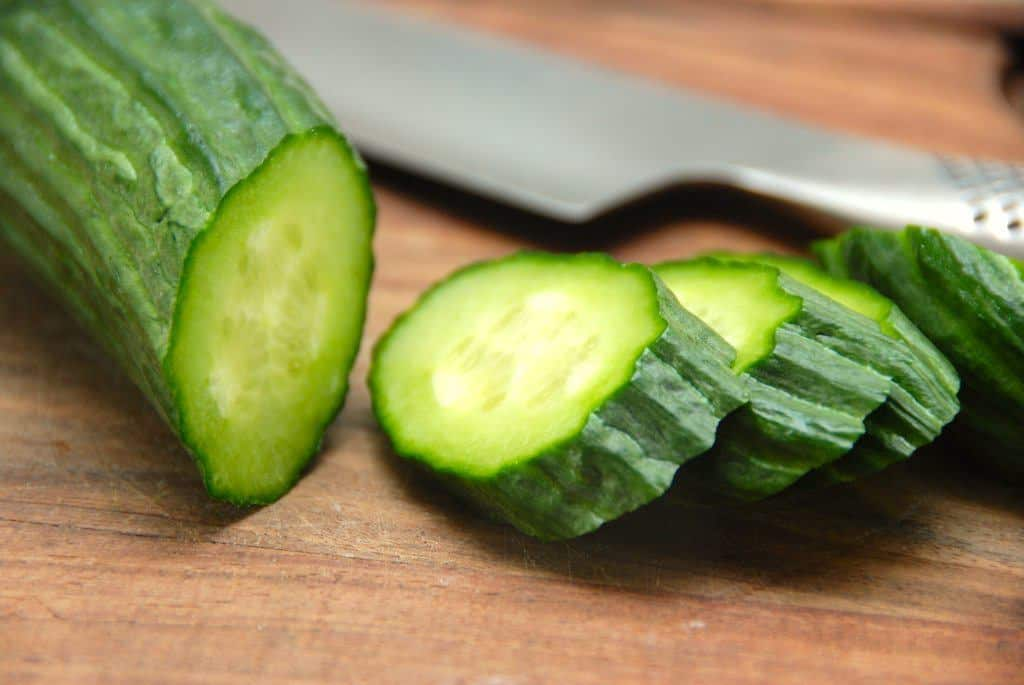
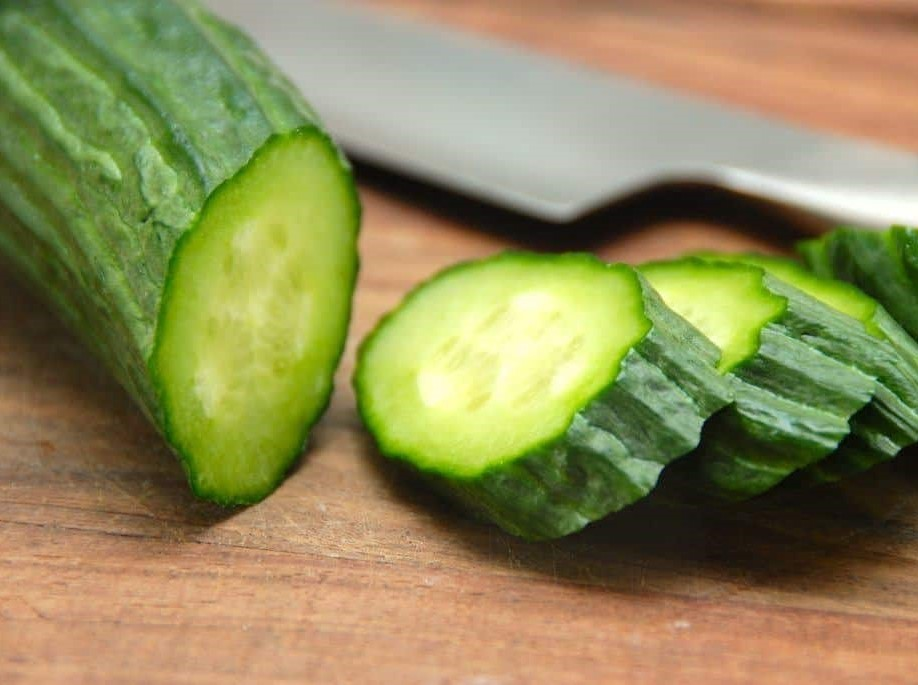
Flere adds

diff --git a/Main/UniqueItem/agurk.html b/Main/UniqueItem/agurk.html
@@ -9,21 +9,20 @@
 <body>
   <div class="hest" id="hest">
     <div class="hest-header">
-      <div class="title">Kyllingebryst</div>
+      <div class="title">Agurk</div>
     </div>
     <div class="hest-body">
-      Kyllingebryst er et af de mest spiste stykker kød i verden da det har et højt proteinindhold og et lavt fedt indhold, og så smager det super godt!
-      <img src="../../images/kyllingebrystenkeltvare.jpg" alt="Kyllingebryst">
+      Agurk er en af de mest populære grønsager til børn da dette er en oplagt snack at have med madpakken!
+      <img src="../../images/agurkenkeltvare.jpg" alt="Agurk">
     </div>
   </div>
-
   <div class="modal" id="modal">
     <div class="modal-header">
       <div class="title">Hint</div>
     </div>
     <div class="modal-body">
-      Du skal kigge i kølesmontrene med kød for at finde skatten!
-      <img src="../../images/kølemontre.jpg" alt="Kølemontre">
+      Du skal kigge i frugt og grøn aftelingen for at finde skatten!
+      <img src="../../images/grøntområde.jpg" alt="Frugt og Grønt område">
       <div class="knapper">
         <img class="hintpil" src="../../images/pilvenstreikonfed.png" alt="vil venstre">
         <img class="hintpil" src="../../images/pilhøjreikonfed.png" alt="vil højre">
@@ -37,7 +36,7 @@
     </div>
     <h1>Indkøbsliste</h1>
   </div>
-    <div class="varebillede"> <img src="../../images/kyllingebrystenkeltvare.jpg" alt="Kyllingebryst">
+    <div class="varebillede"> <img src="../../images/agurkenkeltvare.jpg" alt="Agurk">
     </div>
     <div class="tekstsektion">
       <div data-hest-target="#hest" class="læsmere">
